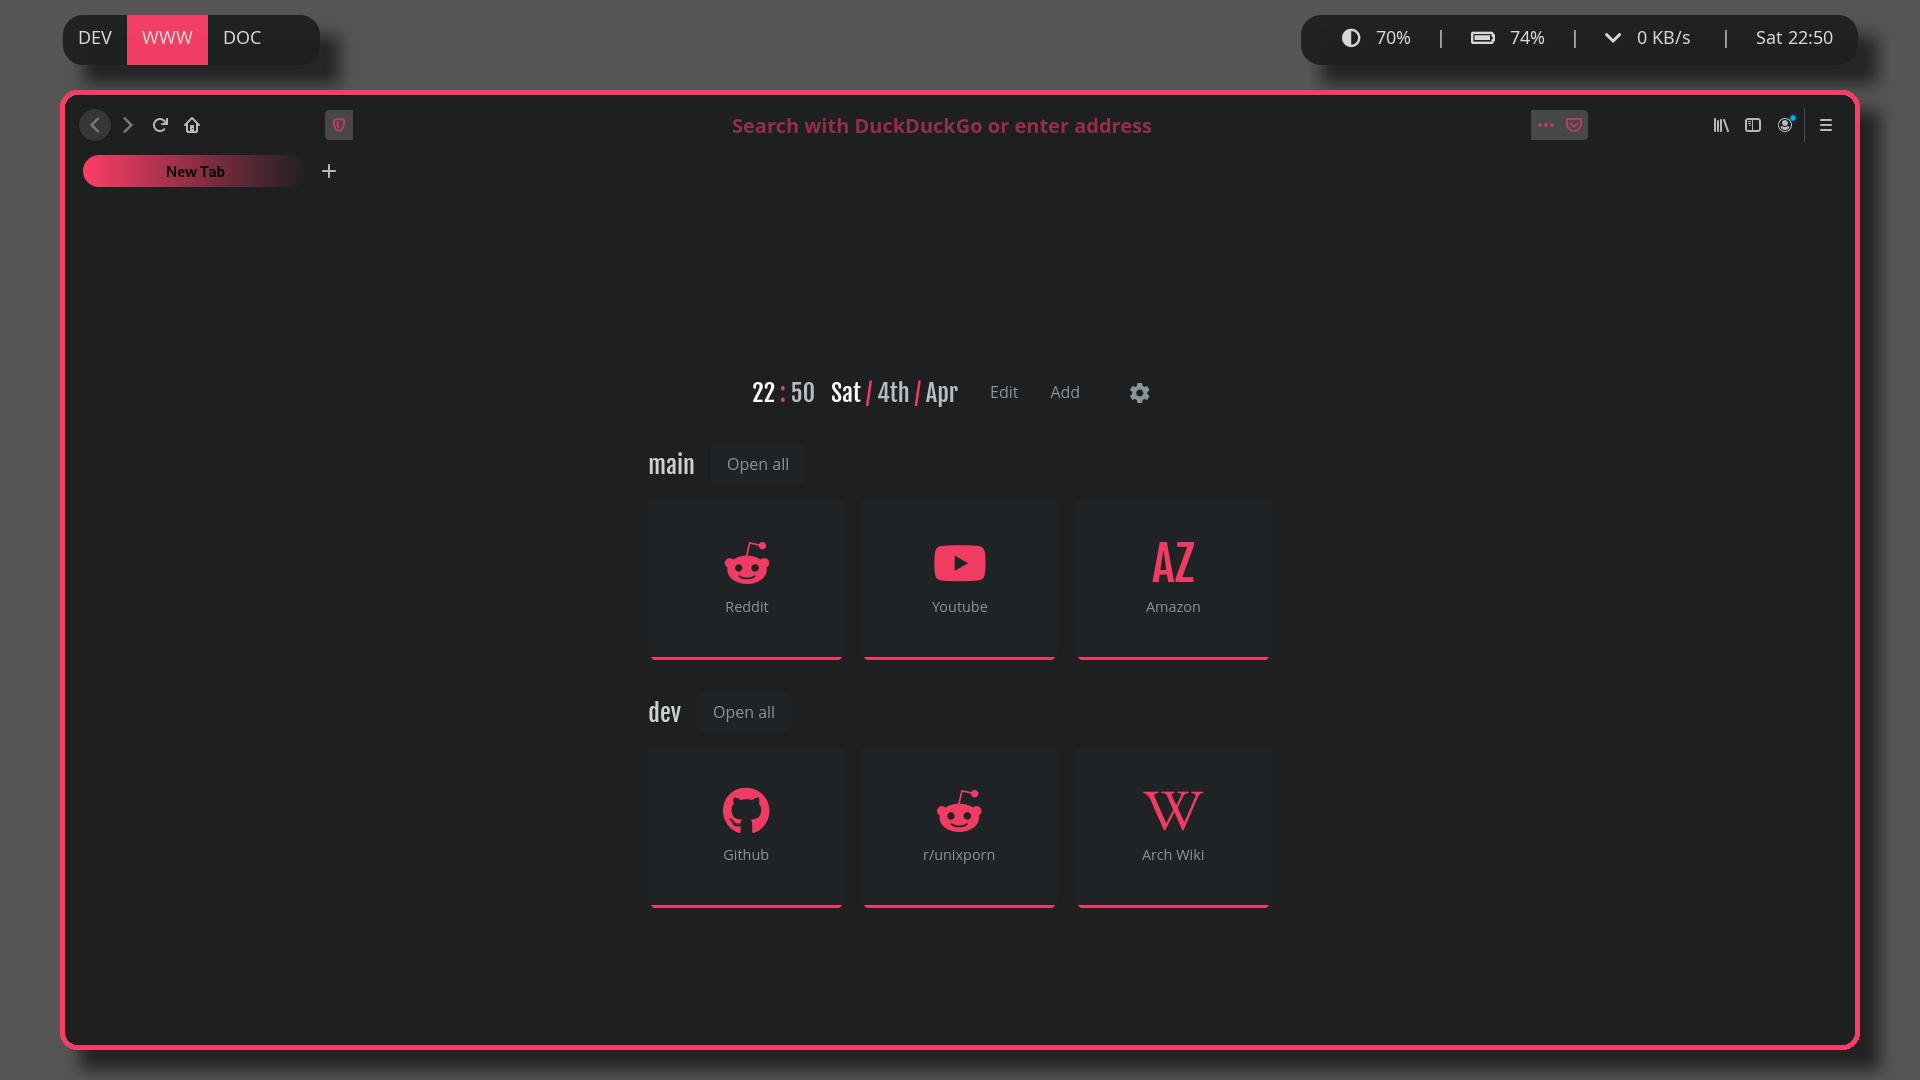
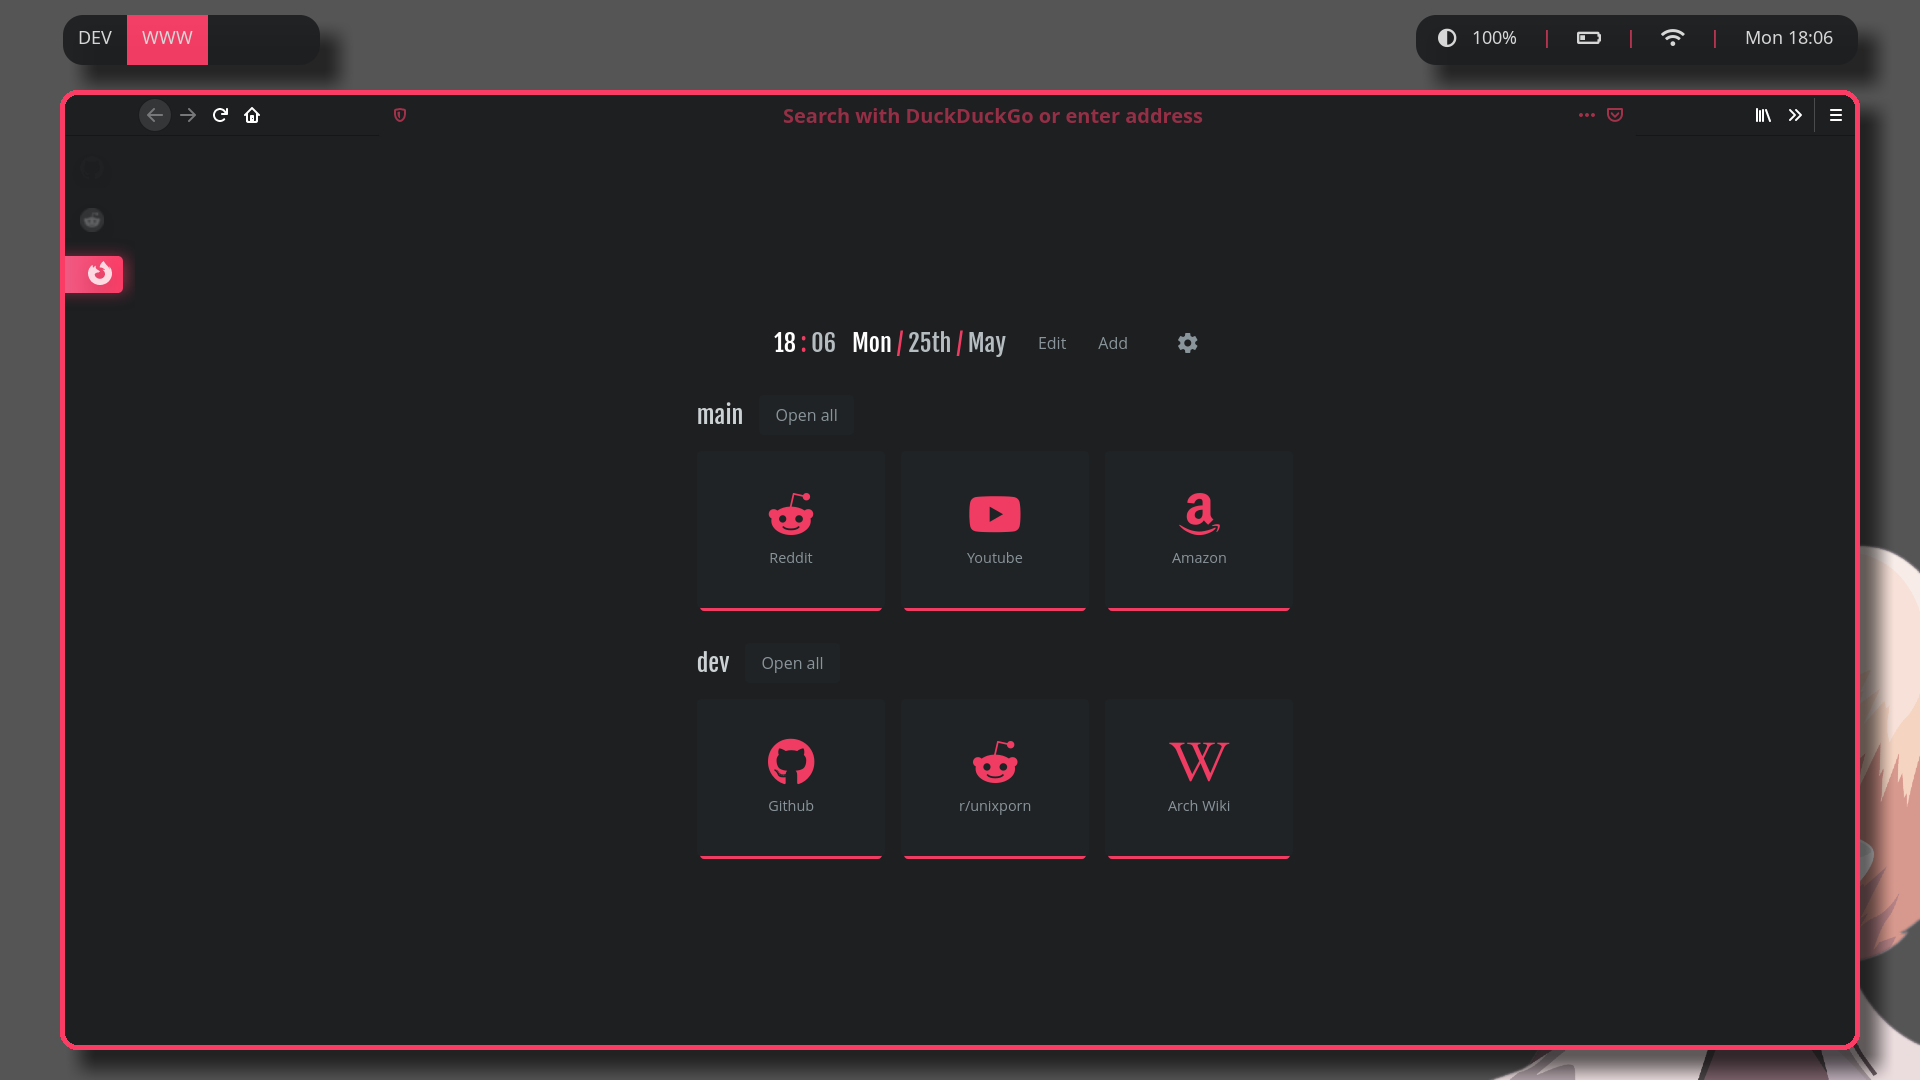
Updating readme

diff --git a/README.md b/README.md
@@ -50,7 +50,7 @@ I usually modify premade themes and colorschemes to fit my setup/taste.
 |Terminal|[cloud](http://terminal.sexy/#AAAA____Iign1ajjnHXdmJiuZUqWYlVmqdHf5uvlXW90zXScY7CwwMDdV4a8PzRChJ2i2dbP)|yes|
 |Vim|[shades of purple](https://github.com/Rigellute/shades-of-purple.vim)|no|
 |Rofi|[materia](https://github.com/DefunctLizard/materia-rofi-theme/blob/master/README.md)|no|
-|Firefox|[minimal functional fox](https://github.com/mut-ex/minimal-functional-fox)|yes|
+|Firefox|[flying fox](https://github.com/akshat46/FlyingFox)|yes|
 |oh-my-zsh|[bubblified](https://github.com/hohmannr/bubblified)|yes|
 
 # Vim 
